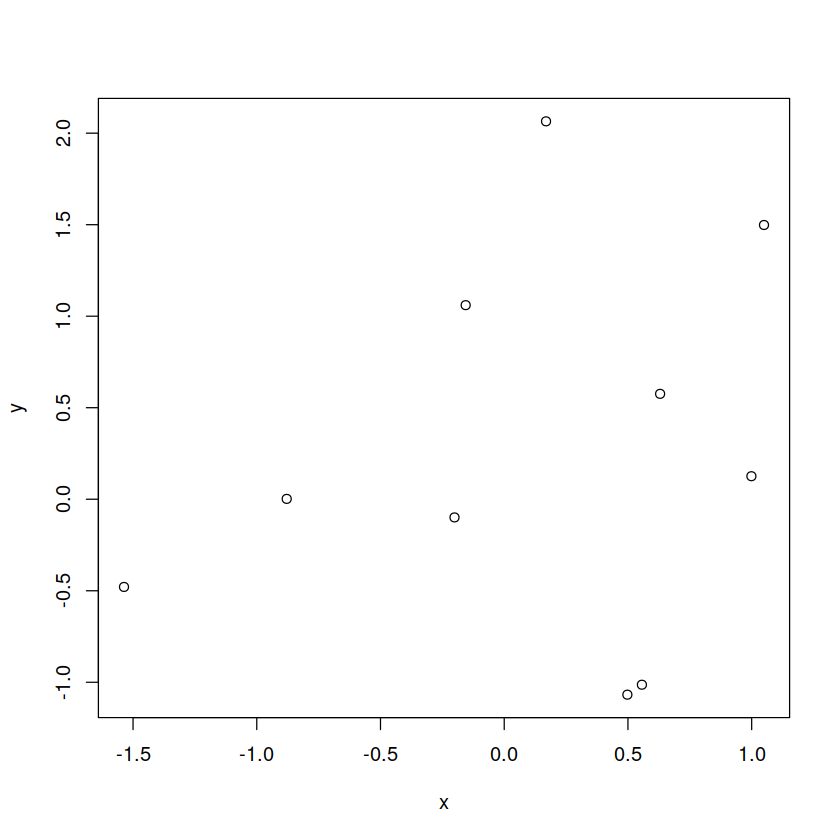
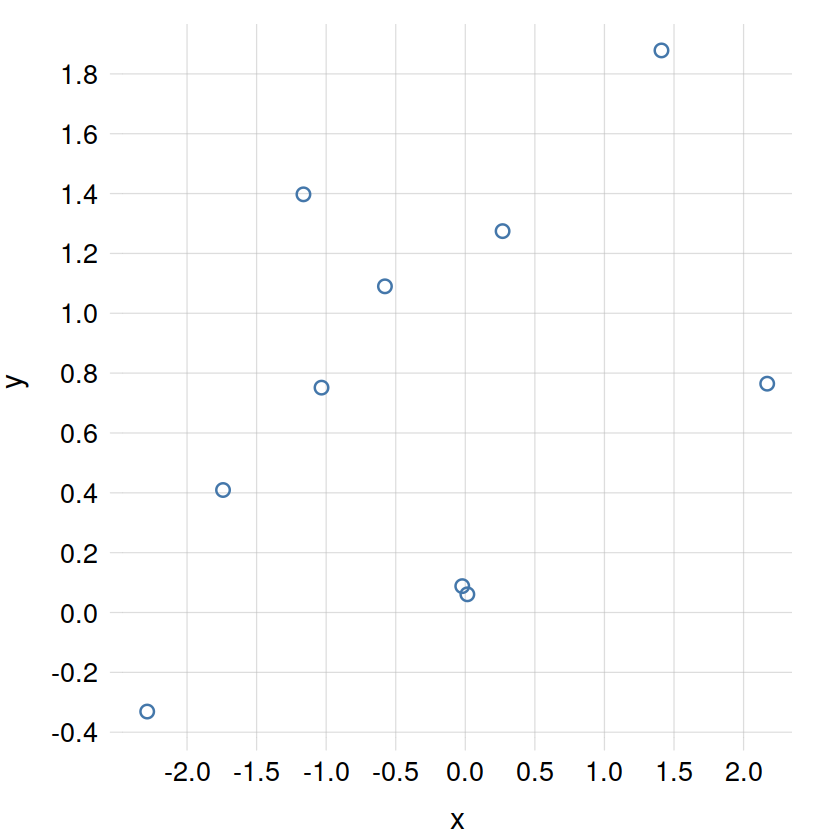
update population inference

diff --git a/docs/testRjupyter.html b/docs/testRjupyter.html
@@ -97,6 +97,7 @@ pre > code.sourceCode > span > a:first-child::before { text-decoration: underlin
 }</script>
 
 
+<link rel="stylesheet" href="ada511styles.css">
 </head>
 
 <body class="nav-sidebar docked">
@@ -440,9 +441,10 @@ pre > code.sourceCode > span > a:first-child::before { text-decoration: underlin
 </header>
 
 <div class="cell" data-execution_count="1">
-<div class="sourceCode cell-code" id="cb1"><pre class="sourceCode r code-with-copy"><code class="sourceCode r"><span id="cb1-1"><a href="#cb1-1" aria-hidden="true" tabindex="-1"></a>x <span class="ot">&lt;-</span> <span class="fu">rnorm</span>(<span class="dv">10</span>)</span>
-<span id="cb1-2"><a href="#cb1-2" aria-hidden="true" tabindex="-1"></a>y <span class="ot">&lt;-</span> <span class="fu">rnorm</span>(<span class="dv">10</span>)</span>
-<span id="cb1-3"><a href="#cb1-3" aria-hidden="true" tabindex="-1"></a><span class="fu">plot</span>(<span class="at">x=</span>x, <span class="at">y=</span>y)</span></code><button title="Copy to Clipboard" class="code-copy-button"><i class="bi"></i></button></pre></div>
+<div class="sourceCode cell-code" id="cb1"><pre class="sourceCode r code-with-copy"><code class="sourceCode r"><span id="cb1-1"><a href="#cb1-1" aria-hidden="true" tabindex="-1"></a><span class="fu">source</span>(<span class="st">'code/tplotfunctions.R'</span>)</span>
+<span id="cb1-2"><a href="#cb1-2" aria-hidden="true" tabindex="-1"></a>x <span class="ot">&lt;-</span> <span class="fu">rnorm</span>(<span class="dv">10</span>)</span>
+<span id="cb1-3"><a href="#cb1-3" aria-hidden="true" tabindex="-1"></a>y <span class="ot">&lt;-</span> <span class="fu">rnorm</span>(<span class="dv">10</span>)</span>
+<span id="cb1-4"><a href="#cb1-4" aria-hidden="true" tabindex="-1"></a><span class="fu">tplot</span>(<span class="at">x=</span>x, <span class="at">y=</span>y, <span class="at">type=</span><span class="st">'p'</span>)</span></code><button title="Copy to Clipboard" class="code-copy-button"><i class="bi"></i></button></pre></div>
 <div class="cell-output cell-output-display">
 <p><img src="testRjupyter_files/figure-html/cell-2-output-1.png" class="img-fluid"></p>
 </div>

diff --git a/docs/ada511styles.css b/docs/ada511styles.css
@@ -1,0 +1,68 @@
+.callout-header {
+  background-color: #EEEEEE !important;
+}
+
+div.callout-note.callout.callout {
+  color: #4477AA;
+  border-left-color: #4477AA !important;
+}
+
+div.callout-warning.callout.callout {
+  color: #EE6677;
+  border-left-color: #EE6677 !important;
+}
+
+div.callout-important.callout.callout {
+  color: #AA3377;
+  border-left-color: #AA3377 !important;
+}
+
+div.callout-tip.callout.callout {
+  color: #228833;
+  border-left-color: #228833 !important;
+}
+
+div.callout-caution.callout.callout {
+  color: #CCBB44;
+  border-left-color: #CCBB44 !important;
+}
+
+/* .m { */
+/*     display:inline-block; */
+/* } */
+
+mark,.mark {
+    background-color:#66CCEE !important;
+}
+
+.blue {
+    color:#4477AA;
+}
+
+.lightblue {
+    color:#66CCEE;
+}
+
+.green {
+    color:#228833;
+}
+
+.yellow {
+    color:#CCBB44;
+}
+
+.red {
+    color:#EE6677;
+}
+
+.purple {
+    color:#AA3377;
+}
+
+.grey {
+    color:#BBBBBB;
+}
+
+.midgrey {
+    color:#777777;
+}

diff --git a/docs/probability_distributions.html b/docs/probability_distributions.html
@@ -101,6 +101,7 @@ pre > code.sourceCode > span > a:first-child::before { text-decoration: underlin
   <script src="https://polyfill.io/v3/polyfill.min.js?features=es6"></script>
   <script src="https://cdn.jsdelivr.net/npm/mathjax@3/es5/tex-chtml-full.js" type="text/javascript"></script>
 
+<link rel="stylesheet" href="ada511styles.css">
 </head>
 
 <body class="nav-sidebar docked slimcontent">

diff --git a/docs/2nd_connection_ML.html b/docs/2nd_connection_ML.html
@@ -67,6 +67,7 @@ ul.task-list li input[type="checkbox"] {
   <script src="https://polyfill.io/v3/polyfill.min.js?features=es6"></script>
   <script src="https://cdn.jsdelivr.net/npm/mathjax@3/es5/tex-chtml-full.js" type="text/javascript"></script>
 
+<link rel="stylesheet" href="ada511styles.css">
 </head>
 
 <body class="nav-sidebar docked slimcontent">

diff --git a/docs/basic_decisions.html b/docs/basic_decisions.html
@@ -67,6 +67,7 @@ ul.task-list li input[type="checkbox"] {
   <script src="https://polyfill.io/v3/polyfill.min.js?features=es6"></script>
   <script src="https://cdn.jsdelivr.net/npm/mathjax@3/es5/tex-chtml-full.js" type="text/javascript"></script>
 
+<link rel="stylesheet" href="ada511styles.css">
 </head>
 
 <body class="nav-sidebar docked slimcontent">

diff --git a/docs/framework.html b/docs/framework.html
@@ -67,6 +67,7 @@ ul.task-list li input[type="checkbox"] {
   <script src="https://polyfill.io/v3/polyfill.min.js?features=es6"></script>
   <script src="https://cdn.jsdelivr.net/npm/mathjax@3/es5/tex-chtml-full.js" type="text/javascript"></script>
 
+<link rel="stylesheet" href="ada511styles.css">
 </head>
 
 <body class="nav-sidebar docked slimcontent">

diff --git a/docs/index.html b/docs/index.html
@@ -72,6 +72,7 @@ ul.task-list li input[type="checkbox"] {
   <script src="https://polyfill.io/v3/polyfill.min.js?features=es6"></script>
   <script src="https://cdn.jsdelivr.net/npm/mathjax@3/es5/tex-chtml-full.js" type="text/javascript"></script>
 
+<link rel="stylesheet" href="ada511styles.css">
 </head>
 
 <body class="nav-sidebar docked slimcontent">

diff --git a/docs/inference.html b/docs/inference.html
@@ -67,6 +67,7 @@ ul.task-list li input[type="checkbox"] {
   <script src="https://polyfill.io/v3/polyfill.min.js?features=es6"></script>
   <script src="https://cdn.jsdelivr.net/npm/mathjax@3/es5/tex-chtml-full.js" type="text/javascript"></script>
 
+<link rel="stylesheet" href="ada511styles.css">
 </head>
 
 <body class="nav-sidebar docked slimcontent">

diff --git a/docs/intro.html b/docs/intro.html
@@ -67,6 +67,7 @@ ul.task-list li input[type="checkbox"] {
   <script src="https://polyfill.io/v3/polyfill.min.js?features=es6"></script>
   <script src="https://cdn.jsdelivr.net/npm/mathjax@3/es5/tex-chtml-full.js" type="text/javascript"></script>
 
+<link rel="stylesheet" href="ada511styles.css">
 </head>
 
 <body class="nav-sidebar docked slimcontent">

diff --git a/docs/joint_probability.html b/docs/joint_probability.html
@@ -67,6 +67,7 @@ ul.task-list li input[type="checkbox"] {
   <script src="https://polyfill.io/v3/polyfill.min.js?features=es6"></script>
   <script src="https://cdn.jsdelivr.net/npm/mathjax@3/es5/tex-chtml-full.js" type="text/javascript"></script>
 
+<link rel="stylesheet" href="ada511styles.css">
 </head>
 
 <body class="nav-sidebar docked slimcontent">

diff --git a/docs/population_inference.html b/docs/population_inference.html
@@ -67,6 +67,7 @@ ul.task-list li input[type="checkbox"] {
   <script src="https://polyfill.io/v3/polyfill.min.js?features=es6"></script>
   <script src="https://cdn.jsdelivr.net/npm/mathjax@3/es5/tex-chtml-full.js" type="text/javascript"></script>
 
+<link rel="stylesheet" href="ada511styles.css">
 </head>
 
 <body class="nav-sidebar docked slimcontent">

diff --git a/docs/populations_variates.html b/docs/populations_variates.html
@@ -67,6 +67,7 @@ ul.task-list li input[type="checkbox"] {
   <script src="https://polyfill.io/v3/polyfill.min.js?features=es6"></script>
   <script src="https://cdn.jsdelivr.net/npm/mathjax@3/es5/tex-chtml-full.js" type="text/javascript"></script>
 
+<link rel="stylesheet" href="ada511styles.css">
 </head>
 
 <body class="nav-sidebar docked slimcontent">
